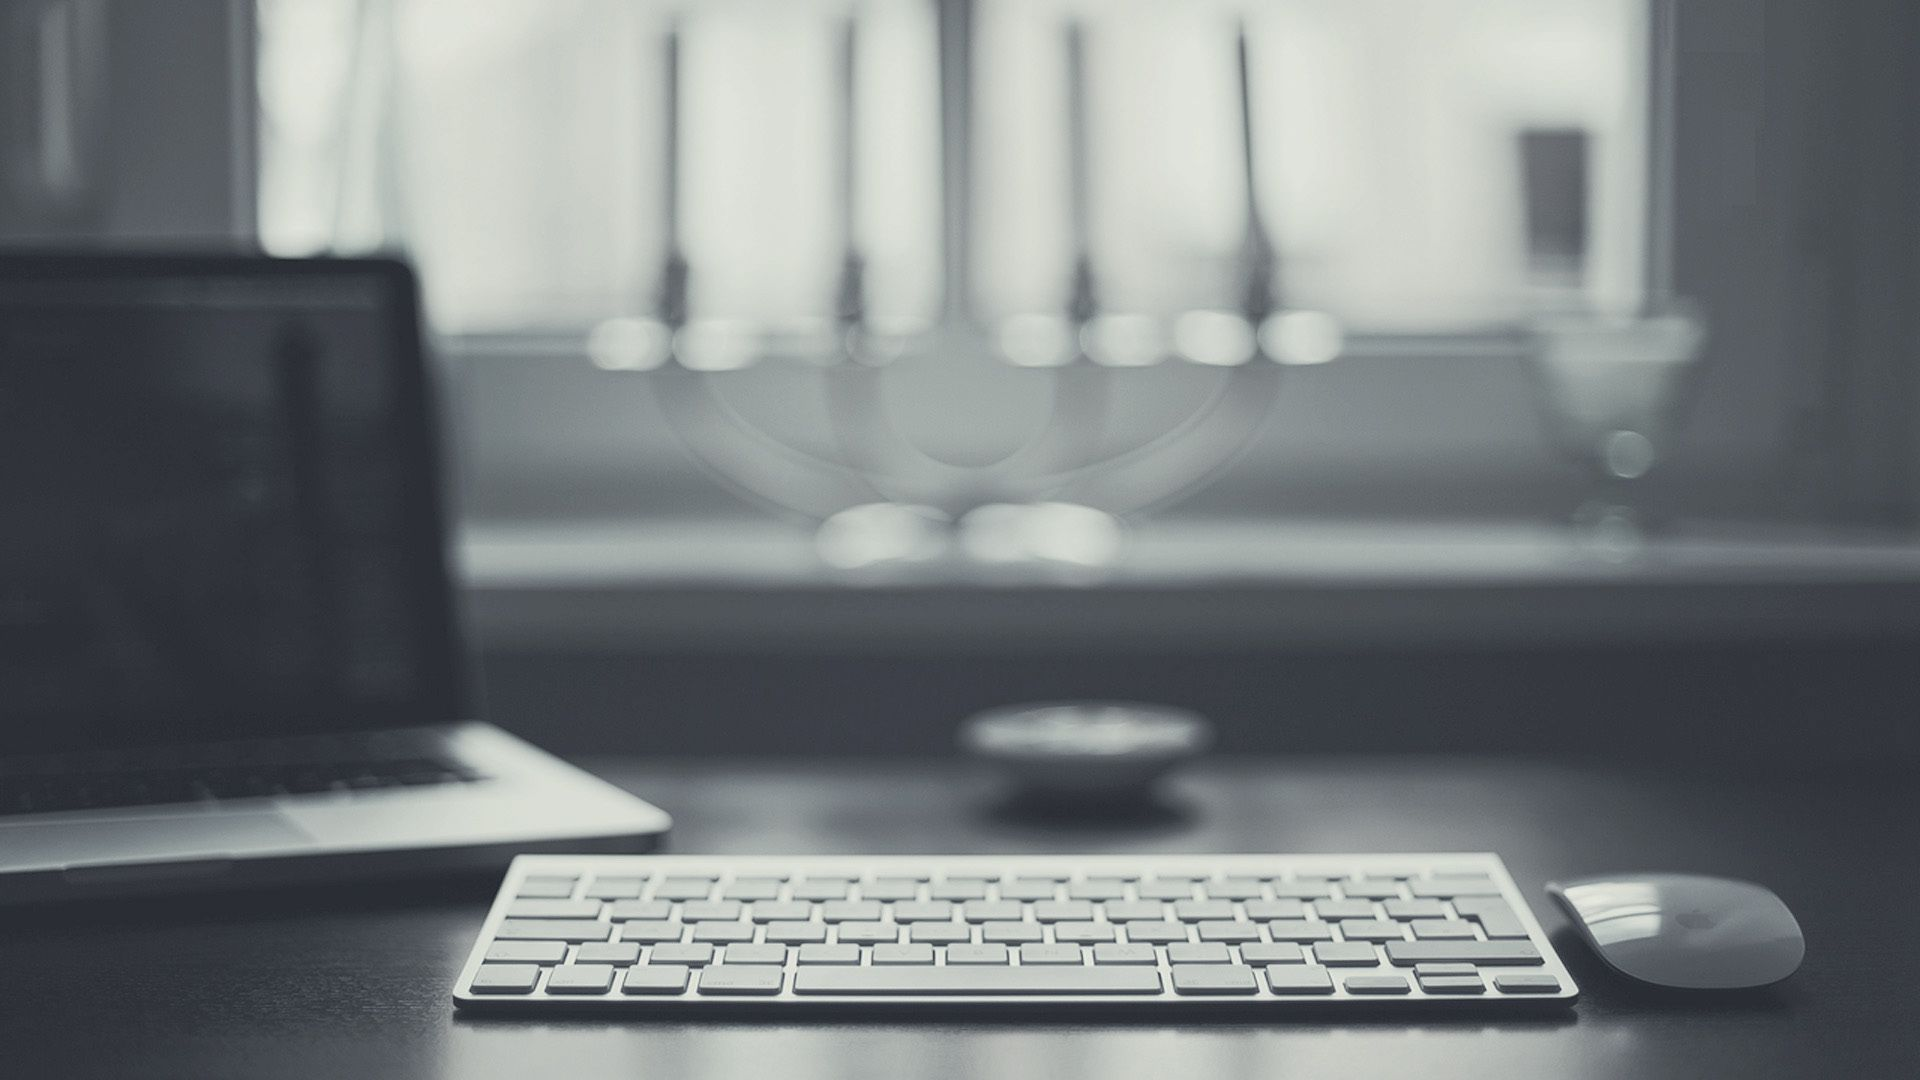
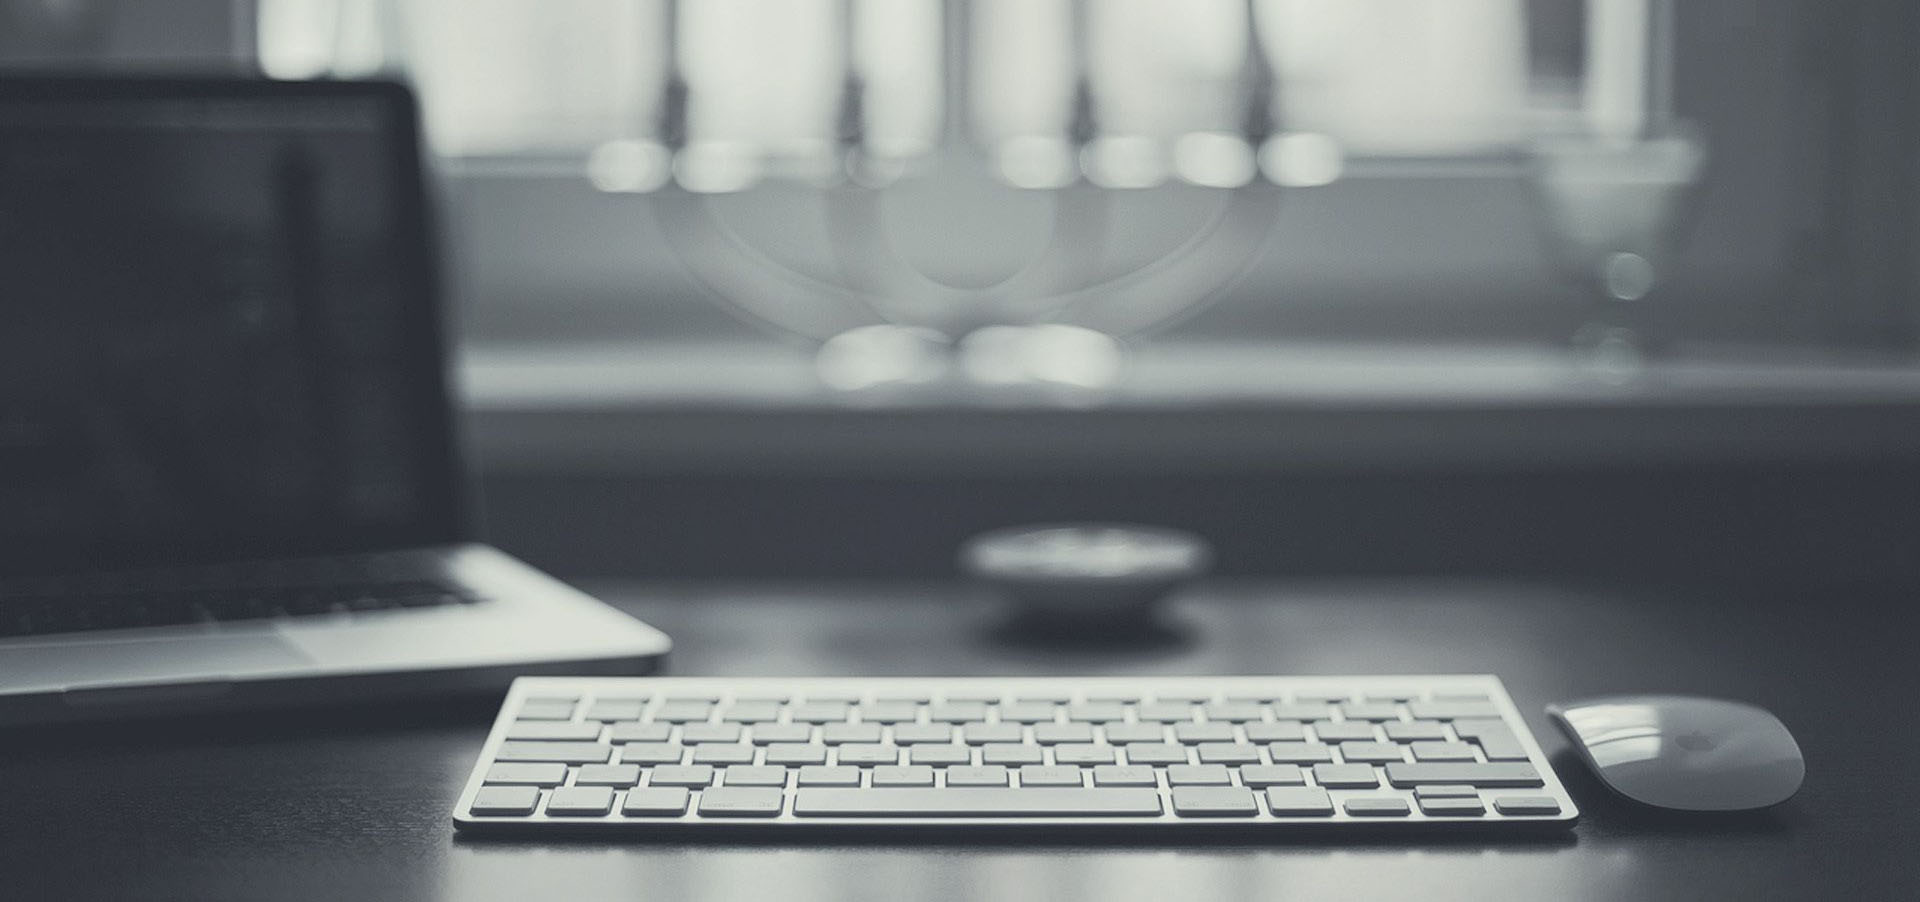
more changes

diff --git a/index.html b/index.html
@@ -55,11 +55,11 @@
 
 <!--headers-->
    <div class="section values1">
-    <img id="logo" alt="logo" src="images/client_logo_grey_0084_bcit.png">
     <div class="container">
       <div class="row">        
         <div class="nine column value">
-	    <h1 class="value-heading">Welcome</h1>	  
+	    <h1 class="value-heading">Welcome</h1>
+	    <img id="logo" alt="logo" src="images/bcit-logo.png">
 	    <p class="value-description">COMP 1950 - Web Development and Design 2</p>
         </div>
       </div>
@@ -177,7 +177,7 @@
       <div class="row">        
         <div class="nine column value">
 	    <h1 class="value-heading2">Outline</h1>
-	    <img id="logo" alt="logo" src="images/client_logo_grey_0084_bcit.png">
+	    <img id="logo" alt="logo" src="images/bcit-logo.png">
 	    <p class="value-description2">COMP 1950 - Web Development and Design 2</p>
         </div>
       </div>
@@ -334,11 +334,12 @@
 	
 <!--headers-->
    <div class="section values3">
-    <img id="logo" alt="logo" src="images/client_logo_grey_0084_bcit.png">
+    
     <div class="container">
       <div class="row">        
         <div class="nine column value">
           <h1 class="value-heading2">Week 1</h1>
+	  <img id="logo" alt="logo" src="images/bcit-logo.png">
 		  <p class="value-description2">COMP 1950 - Web Development and Design 2</p>
         </div>
       </div>
@@ -363,13 +364,14 @@
 </div>
 
 <!--headers-->
+    
    <div class="section values4">
-    <img id="logo" alt="logo" src="images/client_logo_grey_0084_bcit.png">
     <div class="container">
-      <div class="row">        
+      <div class="row">
         <div class="nine column value">
           <h1 class="value-heading2">Week 2</h1>
-		  <p class="value-description2">COMP 1950 - Web Development and Design 2</p>
+	  <img id="logo" alt="logo" src="images/bcit-logo.png">
+	    <p class="value-description2">COMP 1950 - Web Development and Design 2</p>
         </div>
       </div>
     </div>

diff --git a/css/protostyles.css b/css/protostyles.css
@@ -53,11 +53,11 @@
 }
 
 .values3 {
-  background-image: url('../images/Web-Design-Concept.jpg');  
+  background-image: url('../images/Web-Design-Concept copy.jpg');  
 }
 
 .values4 {
-    background-image: url('../images/web devlopment1.jpg');
+    background-image: url('../images/web devlopment1 copy.jpg');
 }
 .value-heading {
   height: 300px;
@@ -87,6 +87,8 @@
 
 #logo {
     position: absolute;
+    height: 100px;
+    width: 200px;
     top: 250px;
     left: 10px;
 }
